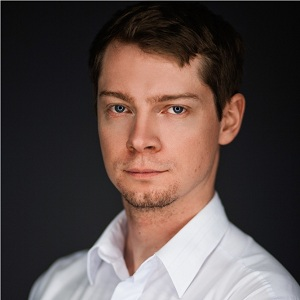
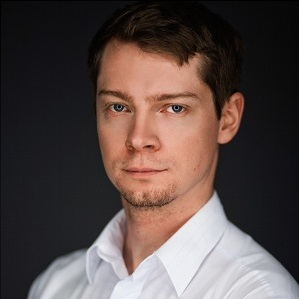
cropped zatko, added neff

diff --git a/_posts/2015-08-28-neff.md b/_posts/2015-08-28-neff.md
@@ -1,0 +1,11 @@
+---
+layout: speaker
+permalink: speakers/eng/neff.html
+content_language: eng
+speaker_name: "Ondřej Neff (CZK)"
+speaker_description: ""
+speaker_presentation: ""
+speaker_when: ""
+speaker_where: ""
+---
+

diff --git a/_posts/2015-08-28-cz_neff.md b/_posts/2015-08-28-cz_neff.md
@@ -1,0 +1,10 @@
+---
+layout: speaker
+permalink: speakers/neff.html
+content_language: cz
+speaker_name: "Ondřej Neff (CZK)"
+speaker_description: ""
+speaker_presentation: ""
+speaker_when: ""
+speaker_where: ""
+---
